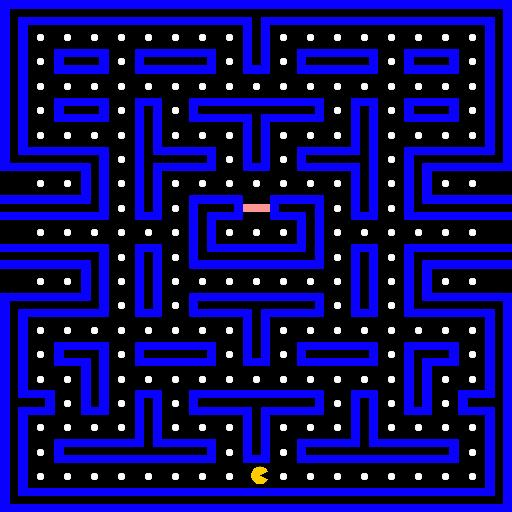
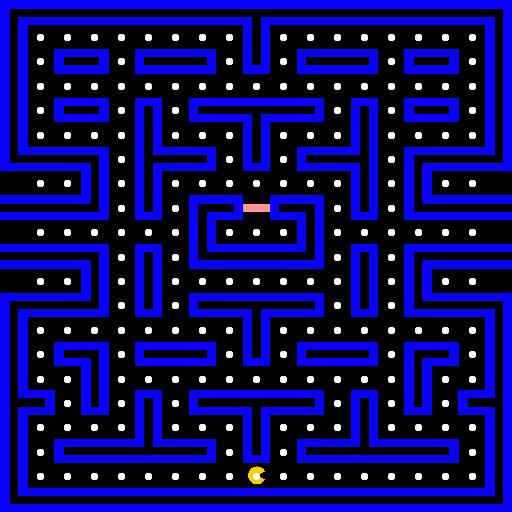
with main

diff --git a/environment.py b/environment.py
@@ -32,14 +32,7 @@ class PACMAN_Environment():
 
         self.map = joblib.load('assets/grid.pt')
 
-        pygame.init()
-
-        h, w = 512, 512
-
-        pygame.display.set_caption('Pac-Man')
-        self.screen = pygame.display.set_mode((w, h))
-
-        # set background.
+            # set background.
         self.background = pygame.image.load('assets/map.png')
         self.background = pygame.transform.scale(self.background, (512, 512))
     
@@ -54,9 +47,18 @@ class PACMAN_Environment():
         """
         reward = 0
 
-        self.game = Game()
+        pygame.init()
 
-        self.pacman = PacMan(self.game)
+        h, w = 512, 512
+
+        pygame.display.set_caption('Pac-Man')
+        self.screen = pygame.display.set_mode((w, h))
+
+
+        # self.game = Game()
+
+        # self.pacman = PacMan(self.game)
+        self.pacman = PacMan(self)
         self.all_players = pygame.sprite.Group()
         self.all_players.add(self.pacman)
 
@@ -92,30 +94,22 @@ class PACMAN_Environment():
             (float, state, Boolean): a tuple of the reward, state observation,
                 and boolean indicating if it's terminal.
         """
+
         self.screen.blit(self.background, dest = (0, 0))
-        self.screen.blit(self.pacman.image, self.pacman.rect)# add dots.
+        self.screen.blit(self.pacman.image, self.pacman.rect)
 
+        self.all_dots.draw(self.screen)
 
-        self.game.update(self.screen)
         ret = pygame.display.flip()
         # pygame.image.save(screen, 'temp.jpg')
         arr = pygame.surfarray.array3d(self.screen).transpose(1, 0, 2)
         # print(arr.shape)
         plt.imsave('temp.jpg', arr)
 
-
-        
         last_score = self.pacman.score
+
         self.all_dots.draw(self.screen)
 
-        # if self.pressed.get(pygame.K_RIGHT) and self.pacman.rect.x + self.pacman.rect.width < self.w-21:
-        #     self.pacman.move_right()
-        # if self.pressed.get(pygame.K_LEFT) and self.pacman.rect.x > 21:
-        #     self.pacman.move_left()
-        # if self.pressed.get(pygame.K_UP) and self.pacman.rect.y > 21:
-        #     self.pacman.move_up()
-        # if self.pressed.get(pygame.K_DOWN) and self.pacman.rect.y + self.pacman.rect.height < self.h-21:
-        #     self.pacman.move_down()
         if action == "right" and self.pacman.rect.x + self.pacman.rect.width < self.w-21:
             self.pacman.move_right()
         if action == "left" and self.pacman.rect.x > 21:
@@ -133,7 +127,7 @@ class PACMAN_Environment():
 
         self.reward_state_term = (reward, state, termination)
 
-    def next_action(self):
+    def next_action_keyboard(self):
 
         action = ""
 
@@ -144,6 +138,7 @@ class PACMAN_Environment():
                 self.pressed[event.key] = True
             elif event.type == pygame.KEYUP:
                 self.pressed[event.key] = False
+
         if self.pressed.get(pygame.K_RIGHT) and self.pacman.rect.x + self.pacman.rect.width < self.w-21:
             action = "right"
         if self.pressed.get(pygame.K_LEFT) and self.pacman.rect.x > 21:
@@ -157,6 +152,11 @@ class PACMAN_Environment():
 
     def env_cleanup(self):
         """Cleanup done after the environment ends"""
+        reward = None
+        state = None
+        termination = None
+        self.reward_state_term = (reward, state, termination)
+
 
     def env_message(self, message):
         """A message asking the environment for information
@@ -165,3 +165,5 @@ class PACMAN_Environment():
         Returns:
             the response (or answer) to the message
         """
+    def check_collision(self, sprite, group):
+        return pygame.sprite.spritecollide(sprite, group, False, pygame.sprite.collide_mask)

diff --git a/main.py b/main.py
@@ -1,48 +1,34 @@
 import pygame
 import time
 from game import Game
+from environment import PACMAN_Environment
 
 import matplotlib.pyplot as plt
 
-pygame.init()
+N = 2
 
-h, w = 512, 512
+env = PACMAN_Environment()
+env.env_init()
 
-pygame.display.set_caption('Pac-Man')
-screen = pygame.display.set_mode((w, h))
+for i in range(N):
 
-# set background.
-background = pygame.image.load('assets/map.png')
-background = pygame.transform.scale(background, (512, 512))
+    print(f"Episode {i+1}/{N}")
 
-game = Game()
+    env.env_start()
+    termination = False
 
-running = True
-while True:
-    screen.blit(background, dest = (0, 0))
+    while not termination:
+        # Draw screen
 
-    game.update(screen)
-    ret = pygame.display.flip()
-    # pygame.image.save(screen, 'temp.jpg')
-    arr = pygame.surfarray.array3d(screen).transpose(1, 0, 2)
-    # print(arr.shape)
-    plt.imsave('temp.jpg', arr)
+        action = env.next_action_keyboard()
+        # Actions possibles : "right", "left", "up", "down", "quit"
+        env.env_step(action)
 
-    for event in pygame.event.get():
-        if event.type == pygame.QUIT:
-            running = False
-            pygame.quit()
-        elif event.type == pygame.KEYDOWN:
-            game.pressed[event.key] = True
+        reward, state, termination = env.reward_state_term
 
-            # if event.key == pygame.K_RIGHT:
-            #     game.pacman.move_right()
-            # if event.key == pygame.K_LEFT:
-            #     game.pacman.move_left()
-            # if event.key== pygame.K_UP:
-            #     game.pacman.move_up()
-            # if event.key == pygame.K_DOWN:
-            #     game.pacman.move_down()
-        elif event.type == pygame.KEYUP:
-            game.pressed[event.key] = False
-    # time.sleep(0.01)
+    print("Score final : " + env.pacman.score)
+
+    env.env_end(reward)
+    env.env_cleanup()
+
+   # time.sleep(0.01)

diff --git a/game.py b/game.py
@@ -27,12 +27,11 @@ class Game():
         return pygame.sprite.spritecollide(sprite, group, False, pygame.sprite.collide_mask)
     
     
-    def update(self, screen):
-        # add pacman
-        screen.blit(self.pacman.image, self.pacman.rect)
+    def update(self, screen, verbose):
 
         # add dots.
-        self.all_dots.draw(screen)
+        if verbose > 1:
+            self.all_dots.draw(screen)
 
         if self.pressed.get(pygame.K_RIGHT) and self.pacman.rect.x + self.pacman.rect.width < self.w-21:
             self.pacman.move_right()
